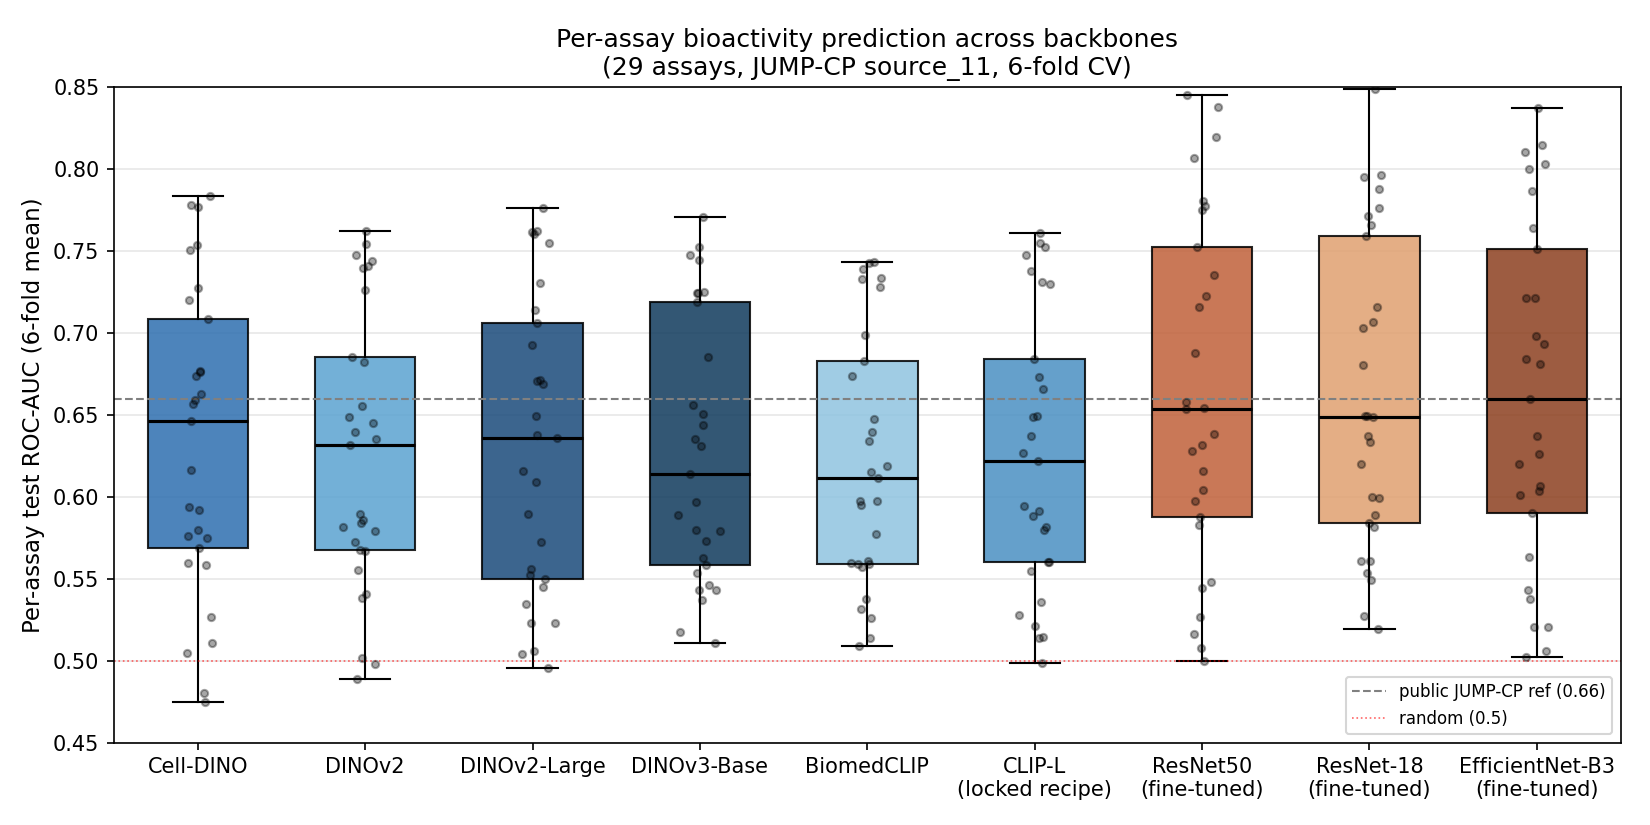
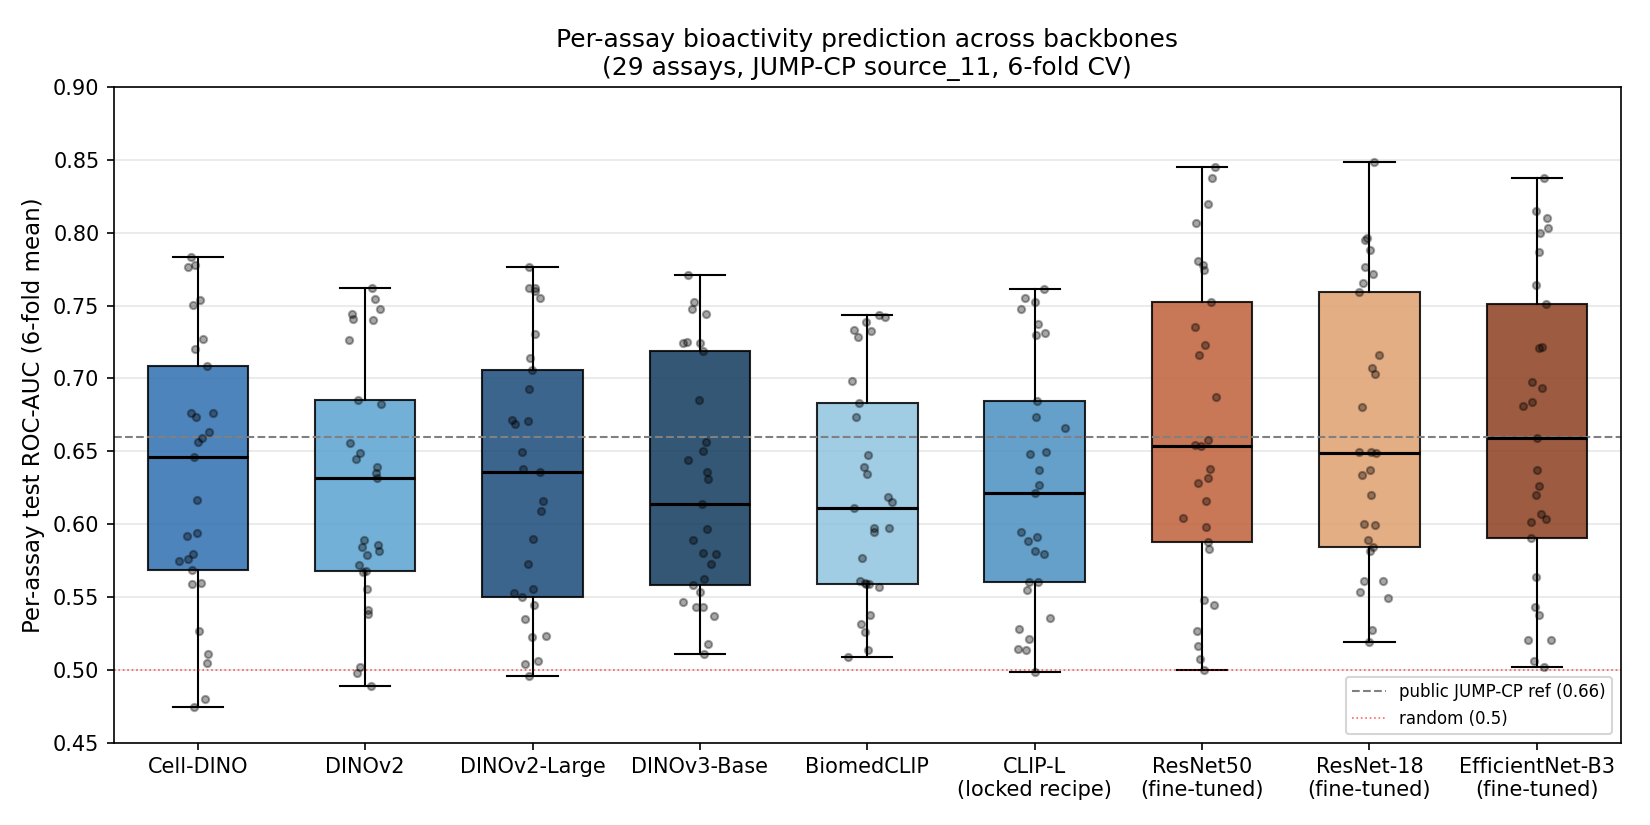
Label ResNet-50 explicitly in Figure C; widen axis ranges in Figures A to D
Look-only changes: no numbers changed.

diff --git a/make_benchmark_figures.py b/make_benchmark_figures.py
@@ -50,7 +50,7 @@ RES_ARMS = [
     ("dino_r224", "DINOv2 224"), ("dino_r448", "DINOv2 448"),
     ("dino_large_r224", "DINOv2-Large 224"), ("dino_large_r448", "DINOv2-Large 448"),
     ("dinov3_r224", "DINOv3-Base 224"), ("dinov3_r448", "DINOv3-Base 448"),
-    ("resnet_r224", "ResNet 224"), ("resnet_r448", "ResNet 448"),
+    ("resnet_r224", "ResNet-50 224"), ("resnet_r448", "ResNet-50 448"),
     ("resnet18_r224", "ResNet-18 224"), ("resnet18_r448", "ResNet-18 448"),
     ("effnet_r224", "EfficientNet-B3 224"), ("effnet_r448", "EfficientNet-B3 448"),
 ]
@@ -117,7 +117,7 @@ ax.set_title("Per-assay bioactivity prediction across backbones\n"
              "(29 assays, JUMP-CP source_11, 6-fold CV)", fontsize=12)
 ax.legend(fontsize=8, loc="lower right")
 ax.grid(axis="y", alpha=0.3)
-ax.set_ylim(0.45, 0.85)
+ax.set_ylim(0.45, 0.90)
 plt.tight_layout()
 plt.savefig(os.path.join(OUTDIR, "fig_A_per_assay_boxplot.png"), dpi=150)
 plt.close()
@@ -162,7 +162,7 @@ ax.set_title(f"Backbone comparison, ranked by mean ROC-AUC\n"
              fontsize=12)
 ax.legend(fontsize=8, loc="upper right")
 ax.grid(axis="y", alpha=0.3)
-ax.set_ylim(0.40, 0.85)
+ax.set_ylim(0.40, 0.90)
 # annotate means just under each box's whisker region
 for i, c in enumerate(order):
     ax.text(i + 1, 0.405, f"mean\n{paired[c].mean():.3f}", ha="center",
@@ -224,7 +224,7 @@ if res_data:
     ax.set_ylabel("Per-assay test ROC-AUC (6-fold mean)", fontsize=11)
     ax.set_title("Resolution effect (224 vs 448) by backbone", fontsize=12)
     ax.grid(axis="y", alpha=0.3)
-    ax.set_ylim(0.45, 0.85)
+    ax.set_ylim(0.45, 0.90)
     plt.setp(ax.get_xticklabels(), rotation=30, ha="right")
     plt.tight_layout()
     plt.savefig(os.path.join(OUTDIR, "fig_C_resolution.png"), dpi=150)

diff --git a/make_adaptation_figure.py b/make_adaptation_figure.py
@@ -107,7 +107,7 @@ ax.axhline(0.660, ls="--", color="grey", lw=1, label="public JUMP-CP ref (0.660)
 ax.set_xticks(x)
 ax.set_xticklabels(labels, fontsize=9)
 ax.set_ylabel("Mean test ROC-AUC (per-assay)", fontsize=11)
-ax.set_ylim(0.50, 0.72)
+ax.set_ylim(0.50, 0.80)
 ax.set_title("Adaptation spectrum: frozen probe -> LoRA -> full fine-tuning\n"
              "(DINOv2-family where possible; JUMP-CP source_11, 29 assays)", fontsize=12)
 ax.legend(fontsize=8, loc="upper left")

diff --git a/verify/CORRECTIONS.md b/verify/CORRECTIONS.md
@@ -19,3 +19,4 @@ Errors and overstated claims found in this project's own work, with what changed
 | 2026-10-22 | The benchmark README and its generator said ResNet-50 at 448 px ranks first in all six folds, without naming the set of arms. | True among the original arms only. With ResNet-18 and EfficientNet-B3 included, the best arm varies by fold and ResNet-50 at 448 px ranks 4, 3, 2, 3, 1 and 1 of 16. | Statements narrowed to the original arms; the per-fold ranking is stated explicitly. |
 | 2026-10-22 | The Friedman/Nemenyi results were computed before ResNet-18 and EfficientNet-B3 were added. | Adding arms changes Nemenyi p-values: ResNet-50 vs DINOv2-Large 0.105 to 0.048 (now significant) and Cell-DINO vs BiomedCLIP 0.018 to 0.153 (no longer significant). | Both tests recomputed (9 arms assay-blocked, chi-squared 67.2; 16 arms fold-blocked, chi-squared 71.8, critical difference 9.42). README, methodology document, benchmark README, Figures B, C and E and nemenyi_pvalues.csv updated. |
 | 2026-10-22 | Figures F (precision-recall) and G (calibration) pooled the per-sample predictions with the label mask `!= -1`. In the pipeline 1 = positive, -1 = negative and 0 = not measured, so the mask kept the unmeasured entries (92% of all entries) and dropped the real negatives. | The positive rate used was 0.032 instead of 0.370, so the AP values, the random baseline (AP 0.032) and the calibration curves in the repository figures were wrong. The ROC-AUC results were recomputed independently from the raw labels (cv_rescore.py) and are not affected; Figure H takes its AUC values from the tables. | The mask is now `!= 0` with positives `== 1`; Figures F and G were regenerated from 25,105 measured (compound, assay) pairs per arm and now include ResNet-18 and EfficientNet-B3. |
+| 2026-10-24 | Figure C labelled the ResNet-50 arms "ResNet 224" and "ResNet 448", next to ResNet-18 and EfficientNet-B3 arms. | "ResNet" alone was ambiguous with three ResNet-type models. | Labels now read "ResNet-50 224/448"; axis ranges of Figures A to D widened so no whisker or error bar is clipped. No numbers changed. |
